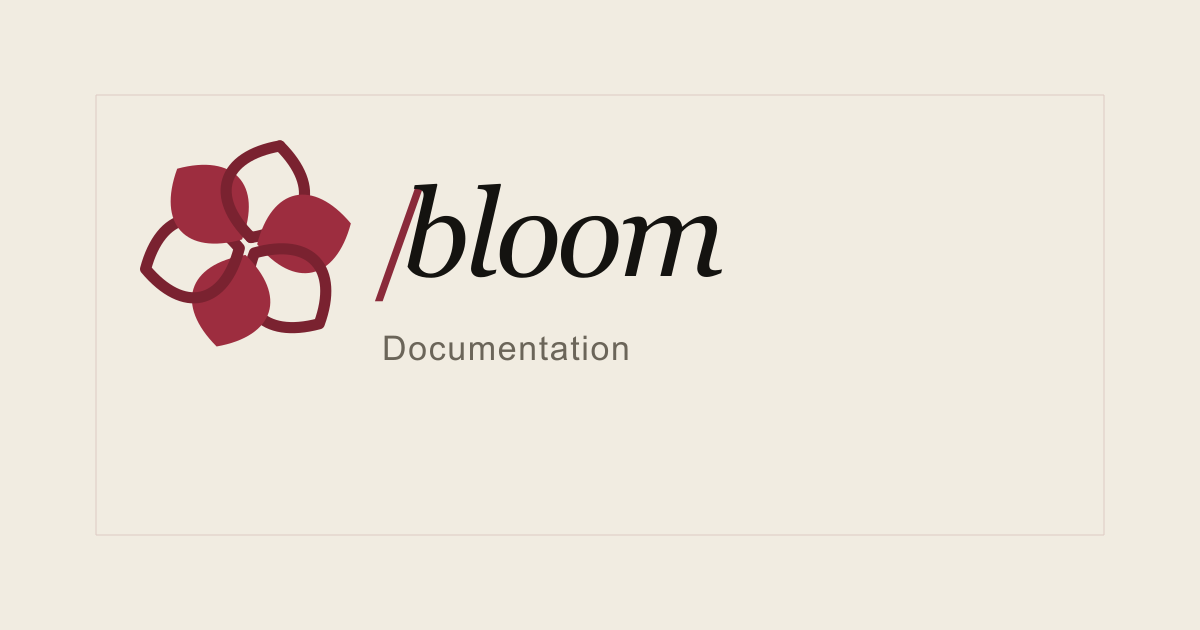
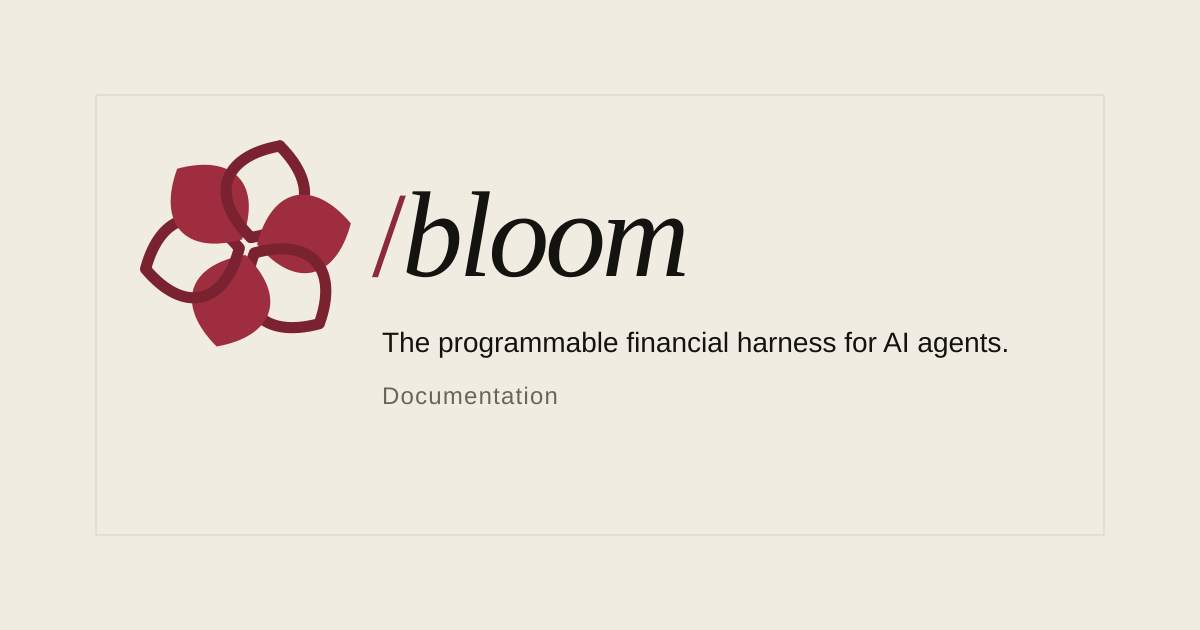
docs: reposition Bloom as financial harness (#34)

Changed region(s): [[0.3083, 0.2714, 0.6167, 0.4825], [0.3083, 0.5127, 0.8325, 0.573], [0.3083, 0.6032, 0.4625, 0.6635]]

diff --git a/vocs.config.ts b/vocs.config.ts
@@ -10,9 +10,9 @@ const siteUrl =
     : undefined
 
 export default defineConfig({
-  title: '/bloom | Documentation',
+  title: '/bloom | The programmable financial harness for AI agents.',
   description:
-    'Documentation for Bloom users, integrators, and developers: agentic wallets, filesystem-first crypto workflows, and petals.',
+    'The programmable financial harness for AI agents. Documentation for Bloom users, integrators, and developers: filesystem-first financial workflows, policy-gated actions, and petals.',
   logoUrl: '/logo.svg',
   iconUrl: {
     light: '/favicon-options/bloom-mono-black.svg',

diff --git a/README.md b/README.md
@@ -5,7 +5,7 @@
 <h1 align="center">Bloom Docs</h1>
 
 <p align="center">
-  User-facing documentation for Bloom, the agentic EVM and Solana wallet mounted as a virtual filesystem.
+  The programmable financial harness for AI agents.
 </p>
 
 <p align="center">
@@ -24,7 +24,7 @@
   <a href="https://bloom.directory/SKILL.md"><strong>Agent setup skill</strong></a>
 </p>
 
-Bloom turns EVM and native Solana wallet workflows into a directory your agent can inspect and write to with ordinary filesystem tools. Wallets expose explicit numbered HD accounts; reads are onchain queries, writes are staged wallet intents, and every meaningful action leaves reviewable files behind.
+This repository holds the user-facing documentation for Bloom, which turns financial workflows into a directory your agent can inspect, program against, and write to with ordinary filesystem tools. Today those workflows run on EVM-compatible chains and native Solana through self-custodial wallets with explicit numbered HD accounts; reads are onchain queries, writes are staged wallet intents, and every meaningful action leaves reviewable files behind.
 
 If you are here to use Bloom, start with the **[live docs](https://docs.bloom.directory)**. The docs cover setup, the mounted `/bloom` filesystem, wallet transaction review, policy controls, and power-user workflows that combine chain reads, encoding helpers, simulations, watches, and transaction staging.
 
